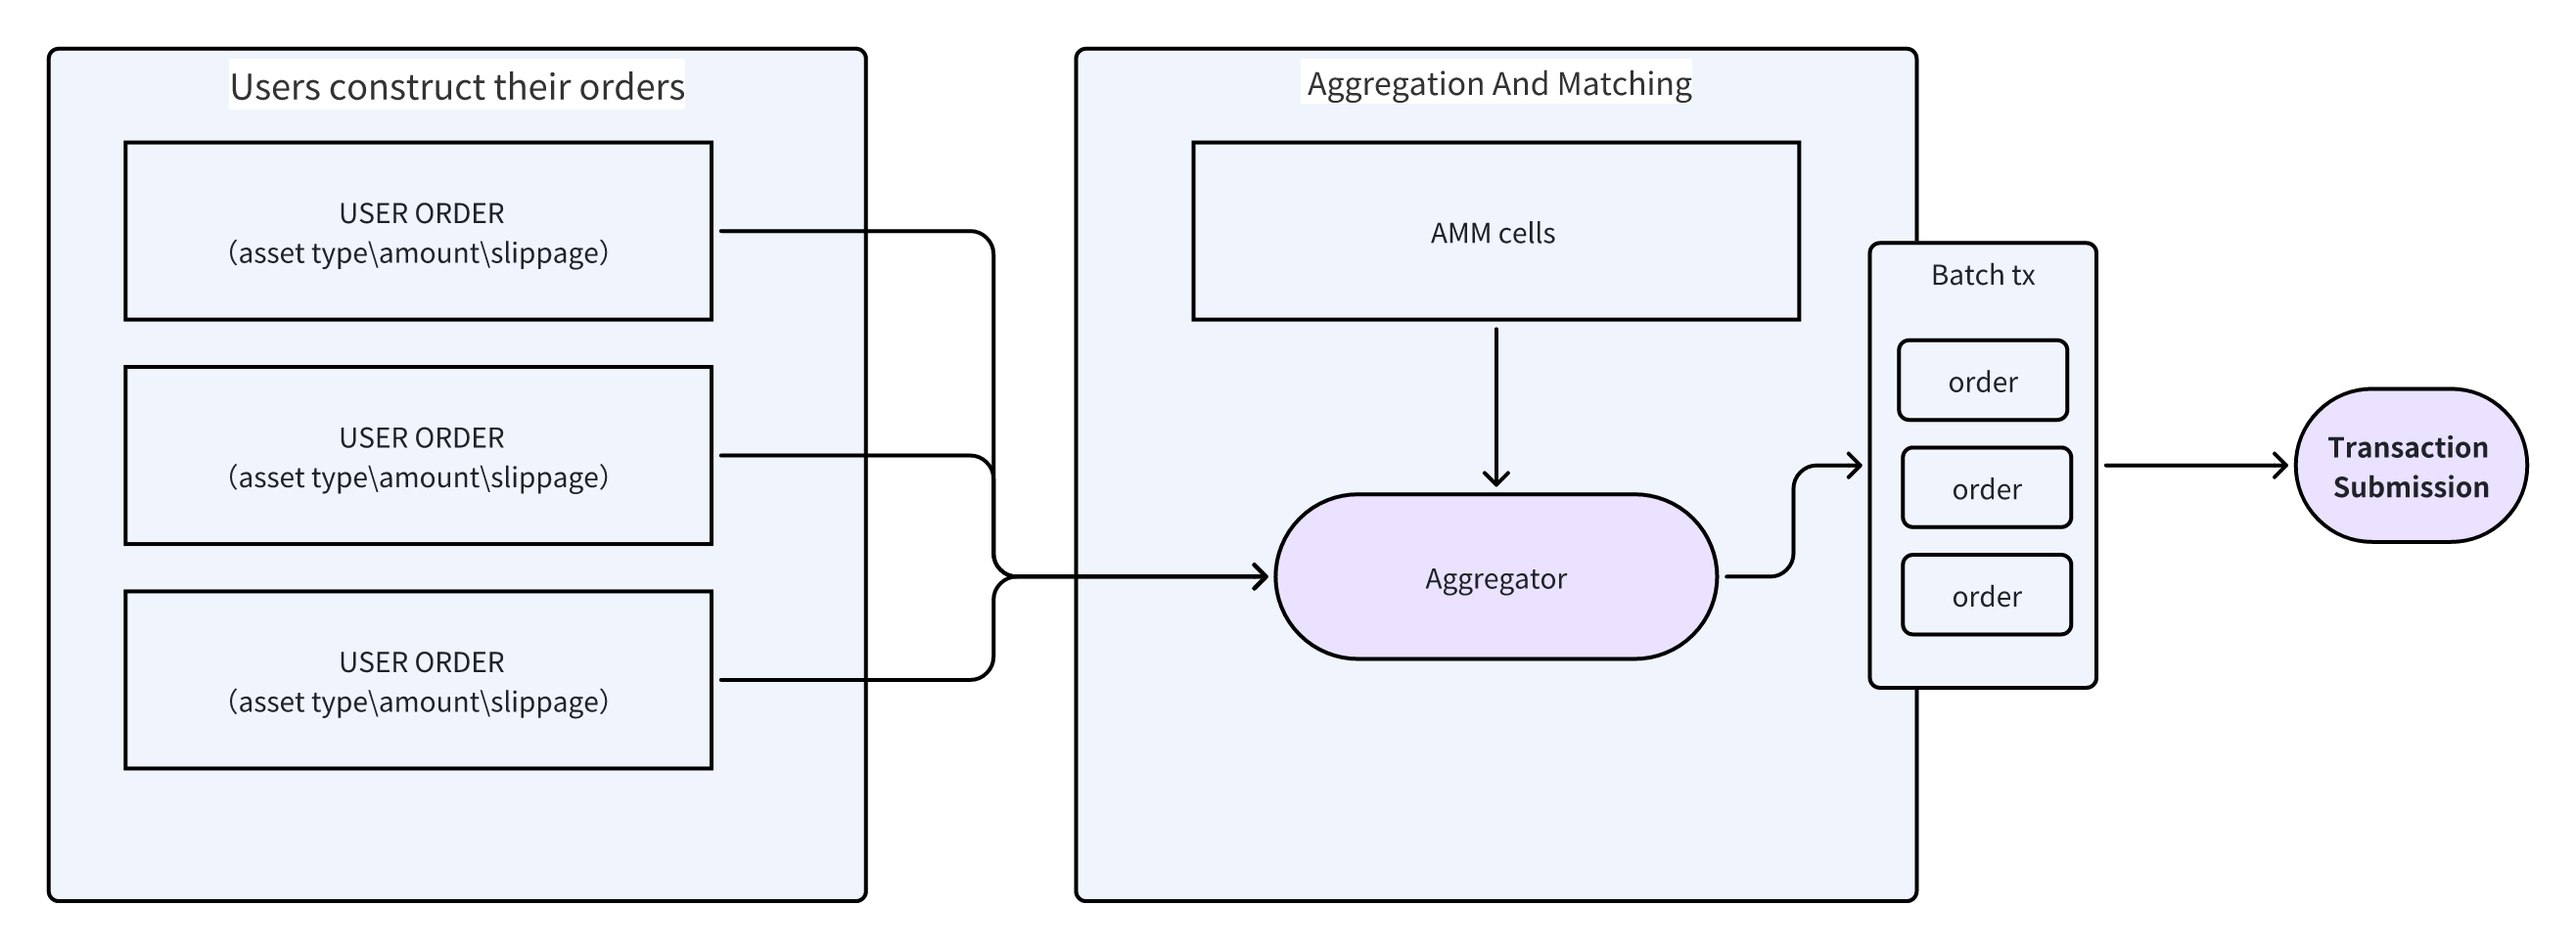
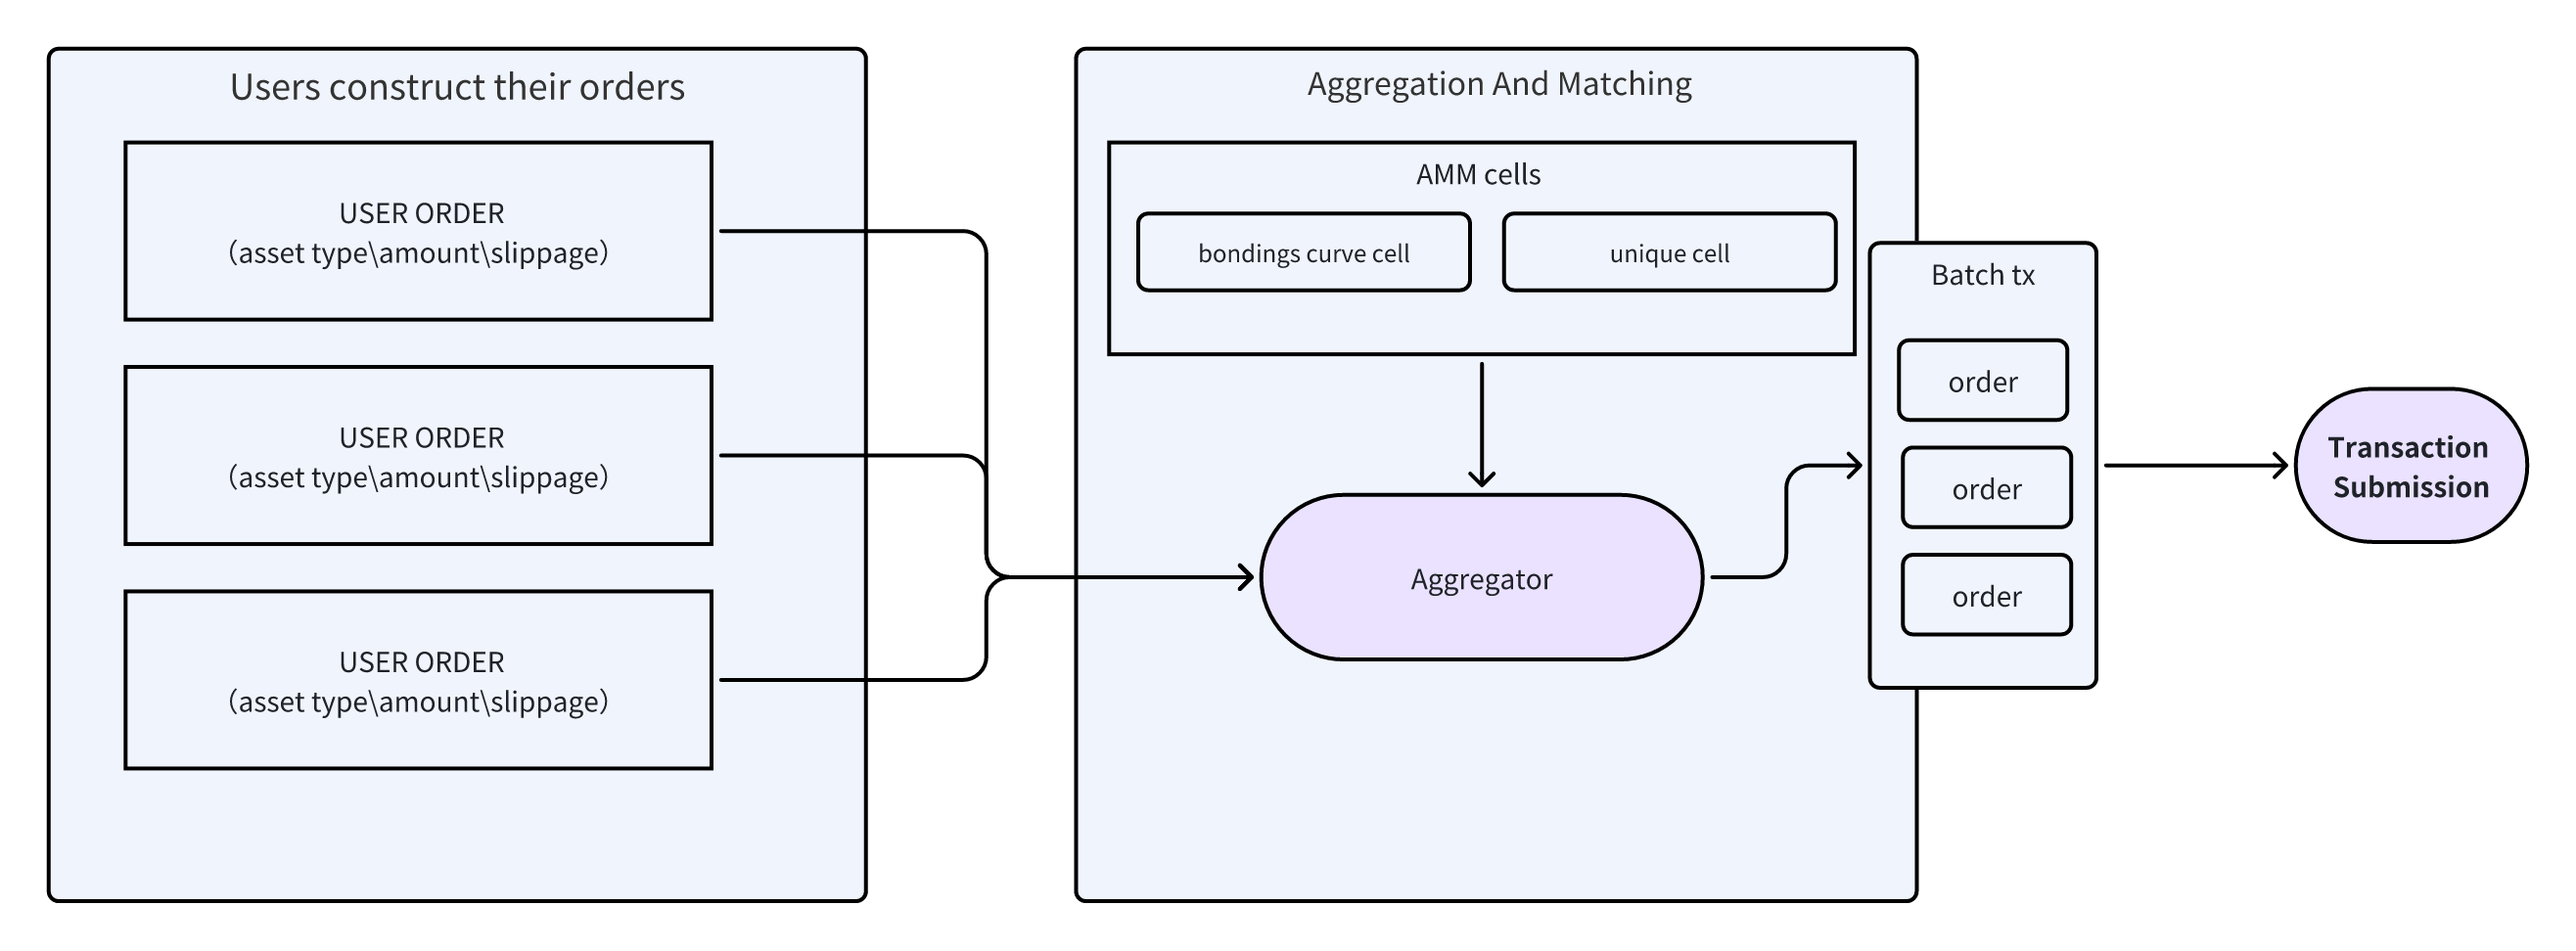
chore: edit readme

diff --git a/README.md b/README.md
@@ -59,7 +59,10 @@ The order cell is used to record the user's transaction intent and ensure that i
 
 #### AMM Cell
 
-The AMM cell is responsible for all the verification logic related to AMM
+The Automated Market Maker (AMM) cell is responsible for all the verification logic related to AMM. The AMM cell is further divided into two types: Bonding Curve Cell and Unique Cell.
+
+Bonding Curve Cell: This cell manages the buying, selling, and pricing of tokens. It implements the bonding curve logic, ensuring that the price of the token adjusts according to the supply.
+Unique Cell: This cell manages the liquidity aspect of the AMM. It ensures that there is sufficient liquidity for token swaps.
 
 
 
